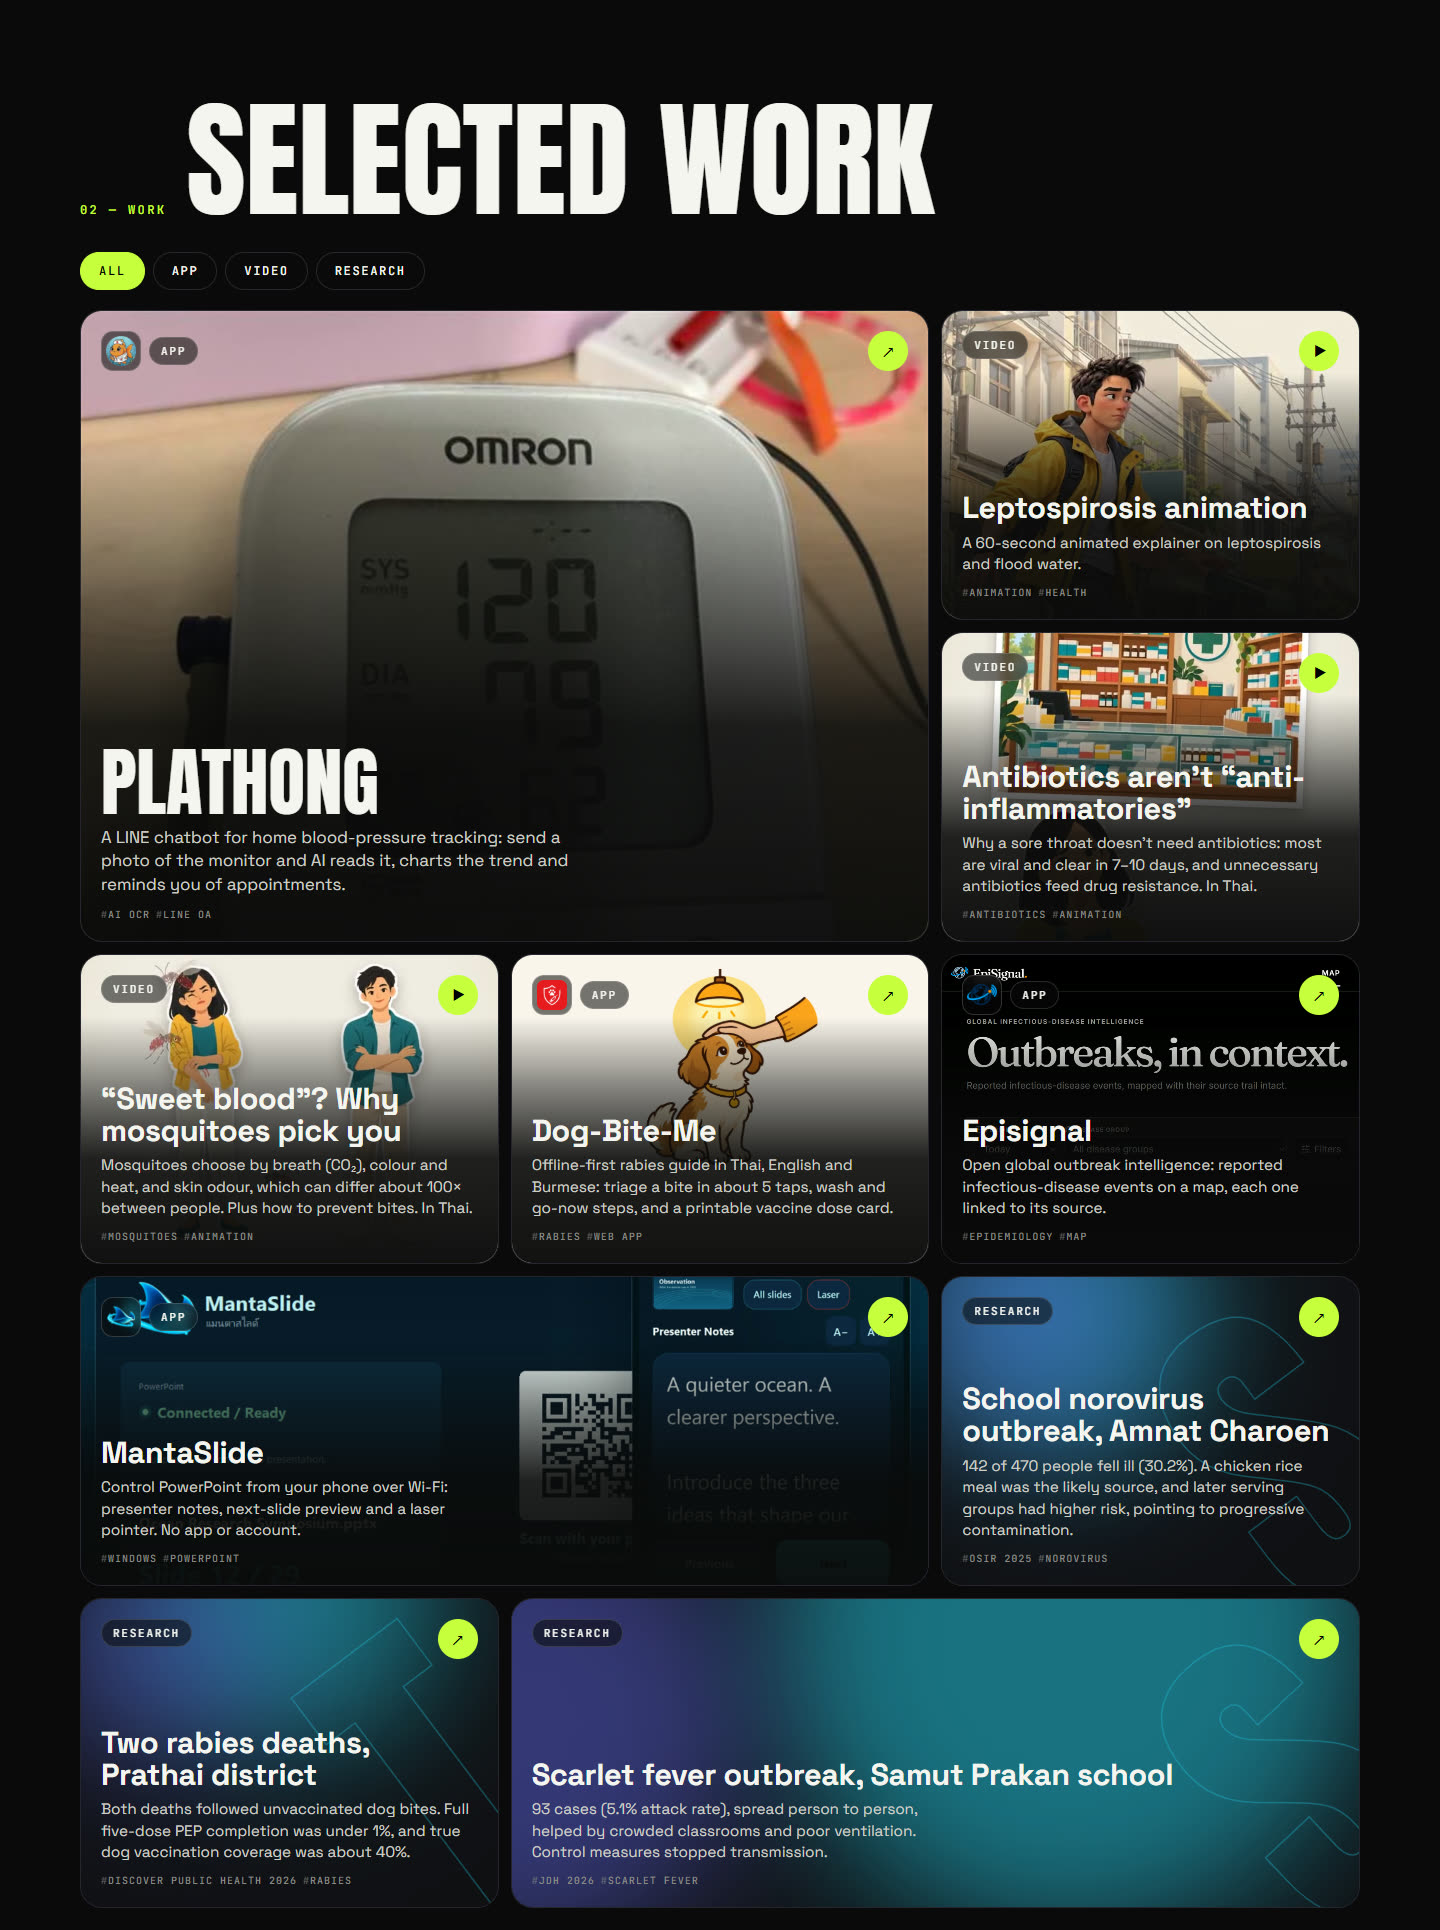
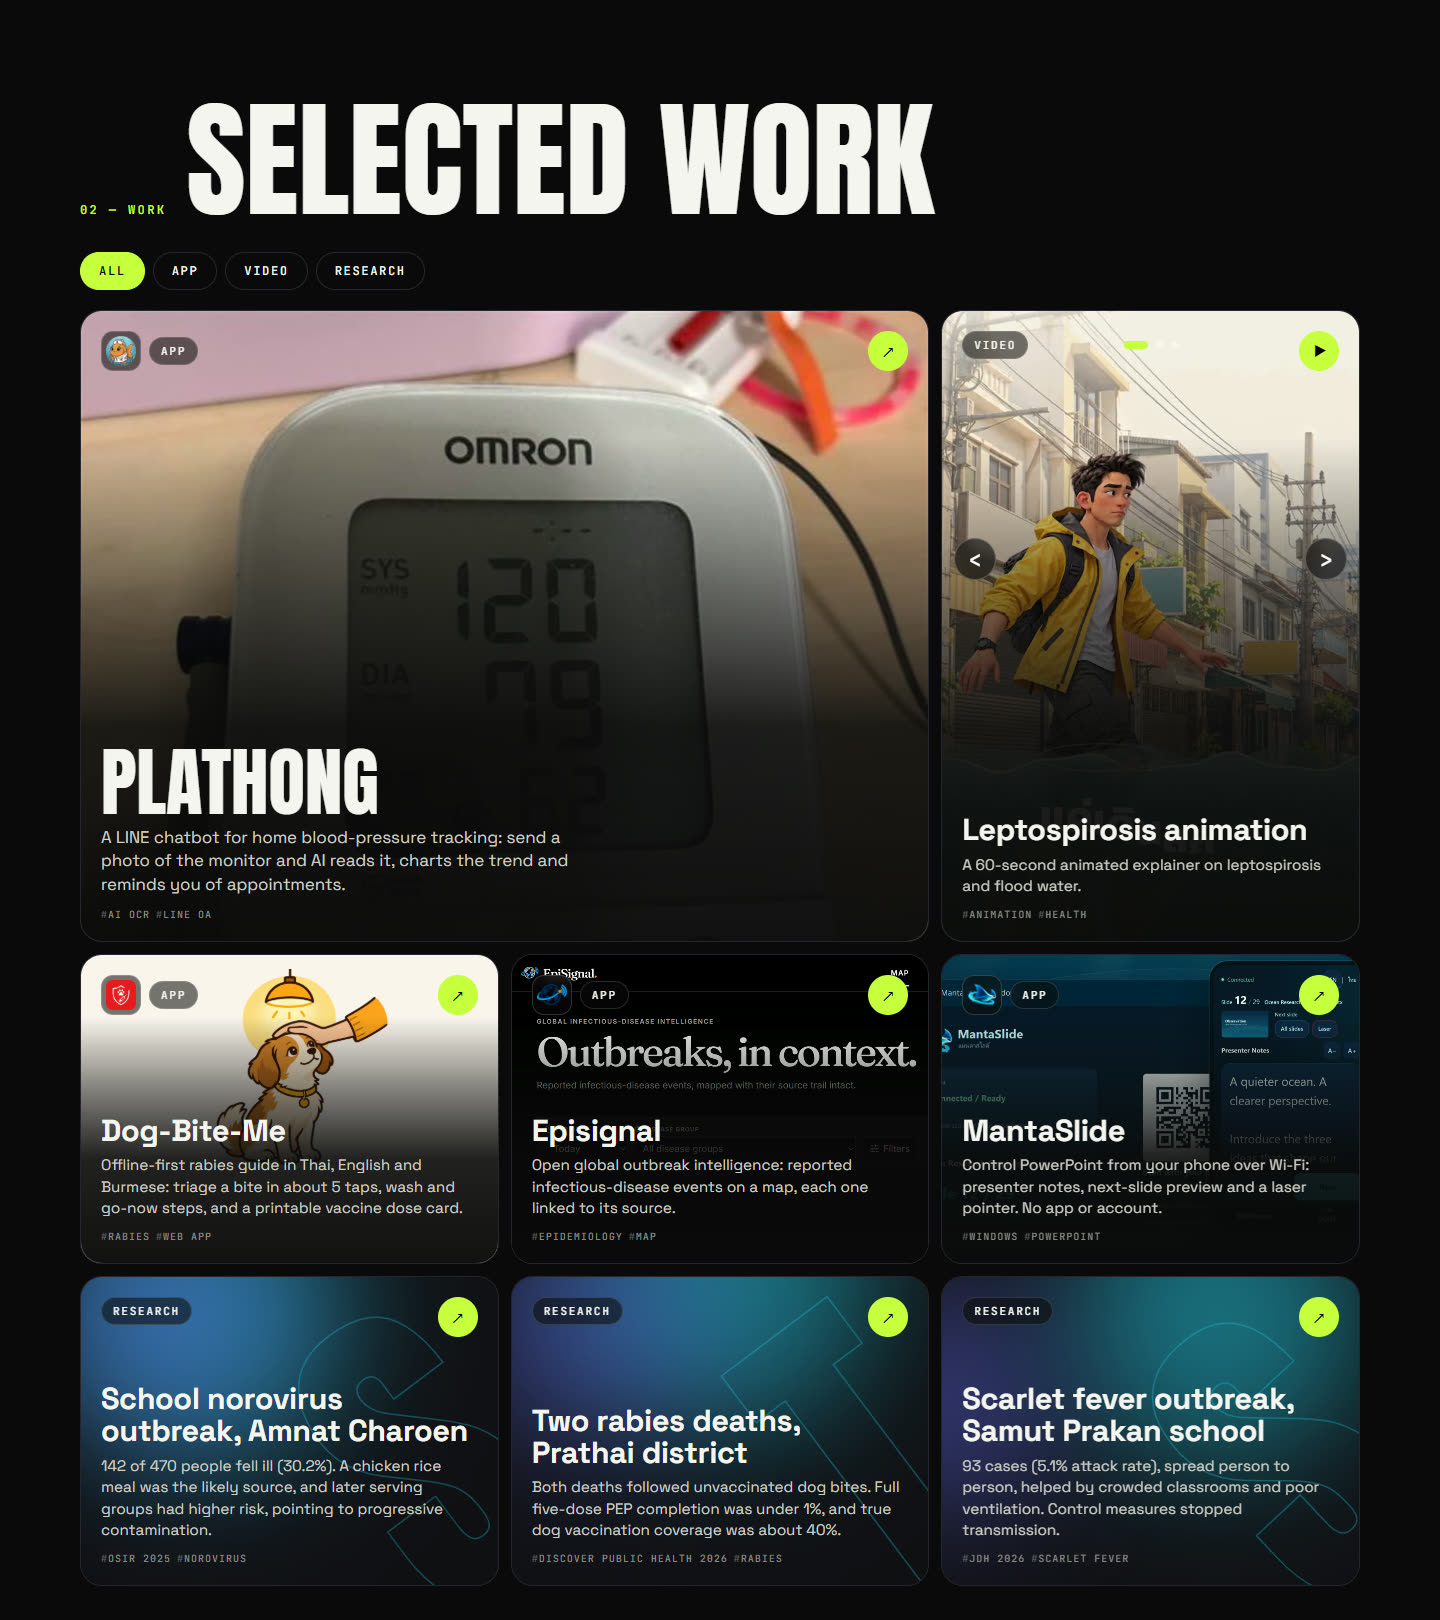
Put the videos in one carousel card
- One tall card holds all video projects: prev/next arrows, dots, swipe, arrow keys
- Auto-advance every 7 s; pauses on hover/focus, after interaction, off-screen,
  in a hidden tab, while the player is open, and for reduce-motion / data saver
- Active slide plays its silent preview loop; inactive slides are inert
- Grid is now 4 gap-free rows; Thai/English labels for the controls
- README and screenshot updated

diff --git a/js/main.js b/js/main.js
@@ -26,7 +26,7 @@ const safeUrl = (u) => (/^(https?:|mailto:|assets\/|\.\/|\/)/i.test(u || '') ? u
 const cap = (s) => s.charAt(0).toUpperCase() + s.slice(1);
 
 // Everything the renderers need; a language switch re-renders from this without refetching.
-const state = { site: null, projects: [], filter: 'All' };
+const state = { site: null, projects: [], filter: 'All', slide: 0 };
 
 async function loadJSON(path) {
   const res = await fetch(path, { cache: 'no-cache' });
@@ -199,10 +199,15 @@ function setPreview(video, on) {
   }
 }
 
-function wirePreview(tile, cover, src) {
-  if (!previewsAllowed()) return;
+function makeLoop(src) {
   const video = h('video', { class: 'cover-loop', muted: true, loop: true, playsinline: true, preload: 'none', 'aria-hidden': 'true', tabindex: '-1', 'data-src': safeUrl(src) });
   video.muted = true; // the attribute alone is not enough for autoplay policies in every browser
+  return video;
+}
+
+function wirePreview(tile, cover, src) {
+  if (!previewsAllowed()) return;
+  const video = makeLoop(src);
   cover.append(video);
   if (touchOnly()) {
     if (!previewObserver && 'IntersectionObserver' in window) {
@@ -219,8 +224,117 @@ function wirePreview(tile, cover, src) {
   }
 }
 
+/* ---------- Video carousel: all videos in one card ---------- */
+let carouselTimer = null;
+let carouselObserver = null;
+let carouselSync = () => {};
+document.addEventListener('visibilitychange', () => carouselSync());
+
+function stopCarousel() {
+  clearInterval(carouselTimer);
+  carouselTimer = null;
+  if (carouselObserver) carouselObserver.disconnect();
+  carouselObserver = null;
+  carouselSync = () => {};
+}
+
+function carouselTile(videos) {
+  const total = videos.length;
+  const tile = h('article', {
+    class: 'tile project reveal tall carousel', 'data-type': 'Video',
+    role: 'region', 'aria-roledescription': 'carousel', 'aria-label': t('carouselLabel'),
+  });
+
+  // Each slide is an ordinary project tile with the tile chrome removed, so covers, titles and the play link stay identical.
+  const slides = videos.map((p, i) => {
+    const s = projectTile(p, { preview: false });
+    s.className = 'slide';
+    s.removeAttribute('data-type');
+    s.setAttribute('role', 'group');
+    s.setAttribute('aria-roledescription', 'slide');
+    s.setAttribute('aria-label', t('slideOf', { n: i + 1, total }));
+    if (safeUrl(p.preview)) { s._loop = makeLoop(p.preview); s.querySelector('.cover').append(s._loop); }
+    tile.append(s);
+    return s;
+  });
+
+  const prev = h('button', { class: 'c-btn c-prev', type: 'button', 'aria-label': t('prevVideo'), text: '‹' });
+  const next = h('button', { class: 'c-btn c-next', type: 'button', 'aria-label': t('nextVideo'), text: '›' });
+  const dots = videos.map((_, i) => h('button', { class: 'c-dot', type: 'button', 'aria-label': t('slideOf', { n: i + 1, total }) }));
+  tile.append(prev, next, h('div', { class: 'c-dots' }, dots));
+
+  const motionOk = previewsAllowed(); // same rule as the hover previews: no auto-advance or moving loops for reduce-motion / data saver
+  let index = Math.min(state.slide || 0, total - 1);
+  let visible = false;
+  let hovering = false;
+  let lastTouch = 0;
+
+  const syncLoops = () => {
+    slides.forEach((s, k) => {
+      if (s._loop) setPreview(s._loop, motionOk && visible && !document.hidden && k === index);
+    });
+  };
+
+  const show = (i, byUser) => {
+    index = (i + total) % total;
+    state.slide = index;
+    if (byUser) lastTouch = Date.now();
+    slides.forEach((s, k) => {
+      const on = k === index;
+      s.classList.toggle('active', on);
+      s.inert = !on;
+      s.setAttribute('aria-hidden', String(!on));
+      dots[k].classList.toggle('on', on);
+      dots[k].setAttribute('aria-current', String(on));
+    });
+    syncLoops();
+  };
+
+  prev.addEventListener('click', () => show(index - 1, true));
+  next.addEventListener('click', () => show(index + 1, true));
+  dots.forEach((d, i) => d.addEventListener('click', () => show(i, true)));
+  tile.addEventListener('keydown', (e) => {
+    if (e.key === 'ArrowLeft') { show(index - 1, true); e.preventDefault(); }
+    if (e.key === 'ArrowRight') { show(index + 1, true); e.preventDefault(); }
+  });
+  tile.addEventListener('mouseenter', () => { hovering = true; });
+  tile.addEventListener('mouseleave', () => { hovering = false; });
+  tile.addEventListener('focusin', () => { hovering = true; });
+  tile.addEventListener('focusout', () => { hovering = false; });
+
+  let x0 = null;
+  tile.addEventListener('touchstart', (e) => { x0 = e.touches[0].clientX; lastTouch = Date.now(); }, { passive: true });
+  tile.addEventListener('touchend', (e) => {
+    if (x0 == null) return;
+    const dx = e.changedTouches[0].clientX - x0;
+    x0 = null;
+    if (Math.abs(dx) > 45) show(index + (dx < 0 ? 1 : -1), true);
+  }, { passive: true });
+
+  carouselSync = syncLoops;
+  if ('IntersectionObserver' in window) {
+    carouselObserver = new IntersectionObserver((entries) => {
+      visible = entries.some((e) => e.isIntersecting);
+      syncLoops();
+    }, { threshold: 0.35 });
+    carouselObserver.observe(tile);
+  } else {
+    visible = true;
+  }
+
+  if (motionOk && total > 1) {
+    carouselTimer = setInterval(() => {
+      // never advance while someone is looking at / using it, off-screen, in another tab, or while the player is open
+      if (visible && !hovering && !document.hidden && modal.hidden && Date.now() - lastTouch > 5000) show(index + 1, false);
+    }, 7000);
+  }
+
+  show(index, false);
+  return tile;
+}
+
 /* ---------- Work ---------- */
-function projectTile(p) {
+function projectTile(p, opts = {}) {
   const title = tr(p.title);
   const fullTitle = p.fullTitle ? tr(p.fullTitle) : '';
   const url = safeUrl(p.link);
@@ -232,7 +346,7 @@ function projectTile(p) {
 
   const cover = coverFor({ ...p, title: en(p.title) }); // covers stay keyed to the English title, so they never change with language
   tile.append(cover);
-  if (hasVideo && safeUrl(p.preview)) wirePreview(tile, cover, p.preview);
+  if (opts.preview !== false && hasVideo && safeUrl(p.preview)) wirePreview(tile, cover, p.preview);
   if (p.image || p.poster) tile.append(h('div', { class: 'scrim' }));
 
   if (hasVideo) {
@@ -270,7 +384,19 @@ function renderWork(projects) {
   const grid = $('#work-grid');
   const tabs = $('#tabs');
   if (previewObserver) previewObserver.disconnect();
-  grid.replaceChildren(...projects.map(projectTile));
+  stopCarousel();
+  // Two or more videos share one carousel card, placed where the first video sits.
+  const videos = projects.filter((p) => p.video);
+  const tiles = [];
+  let carouselAdded = false;
+  for (const p of projects) {
+    if (p.video && videos.length > 1) {
+      if (!carouselAdded) { tiles.push(carouselTile(videos)); carouselAdded = true; }
+      continue;
+    }
+    tiles.push(projectTile(p));
+  }
+  grid.replaceChildren(...tiles);
 
   const types = [...new Set(projects.map((p) => p.type))];
   if (!types.includes(state.filter)) state.filter = 'All';

diff --git a/css/style.css b/css/style.css
@@ -265,6 +265,19 @@ button.t-latest { text-align: left; cursor: pointer; width: 100%; }
   .project.featured .p-bottom h3 { font-size: clamp(2.4rem, 12vw, 3.4rem); }
 }
 
+
+/* Video carousel: slides stack in one card and crossfade */
+.carousel .slide { position: absolute; inset: 0; opacity: 0; pointer-events: none; transition: opacity .6s var(--ease); }
+.carousel .slide.active { opacity: 1; pointer-events: auto; }
+.c-btn { position: absolute; top: 36%; z-index: 6; width: 42px; height: 42px; display: grid; place-items: center; padding: 0 0 3px; border-radius: 50%; border: 1px solid rgba(255, 255, 255, .22); background: rgba(10, 10, 10, .6); color: #fff; font: 400 1.7rem/1 var(--body); cursor: pointer; backdrop-filter: blur(6px); transition: background .25s, color .25s, border-color .25s; }
+.c-prev { left: 12px; }
+.c-next { right: 12px; }
+.c-btn:hover, .c-btn:focus-visible { background: var(--lime); color: #000; border-color: var(--lime); outline: none; }
+.c-dots { position: absolute; top: 30px; left: 50%; z-index: 6; display: flex; gap: 7px; transform: translateX(-50%); }
+.c-dot { width: 8px; height: 8px; padding: 0; border: 0; border-radius: 99px; background: rgba(255, 255, 255, .4); cursor: pointer; transition: width .3s var(--ease), background .3s; }
+.c-dot.on { width: 24px; background: var(--lime); }
+.c-dot:focus-visible { outline: 2px solid var(--lime); outline-offset: 3px; }
+
 /* ============ Contact ============ */
 .contact { padding: clamp(64px, 9vw, 130px) 0 40px; overflow: hidden; }
 /* Align contact content with the grid's left edge */
@@ -311,7 +324,8 @@ a.collab-card:focus-visible { outline: 2px solid var(--lime); outline-offset: 3p
   html:not(.force-motion) .tile,
   html:not(.force-motion) .cover,
   html:not(.force-motion) .arrow,
-  html:not(.force-motion) .play { transition: none; }
+  html:not(.force-motion) .play,
+  html:not(.force-motion) .carousel .slide { transition: none; }
 }
 
 /* ============ Thai typography ============

diff --git a/js/i18n.js b/js/i18n.js
@@ -24,6 +24,7 @@ const UI = {
     mailCtaSubject: 'Collaboration', mailCtaLine: 'I’d like to collaborate with you.', mailCtaAbout: 'What I’m working on:',
     loadError: 'Couldn’t load the projects right now.', loadErrorLink: 'Watch my videos on YouTube ↗',
     modalClose: 'Close video', modalDialog: 'Video player', portrait: 'Portrait of {name}',
+    carouselLabel: 'Animated explainer videos', prevVideo: 'Previous video', nextVideo: 'Next video', slideOf: 'Video {n} of {total}',
   },
   th: {
     pageTitle: 'NAMWAAOK — นพ.วริทธิ์นันท์ อนุพัฒน์',
@@ -47,6 +48,7 @@ const UI = {
     mailCtaSubject: 'ร่วมงานกัน', mailCtaLine: 'สนใจร่วมงานกับคุณ', mailCtaAbout: 'สิ่งที่กำลังทำอยู่:',
     loadError: 'โหลดผลงานไม่สำเร็จในขณะนี้', loadErrorLink: 'ดูวิดีโอของผมบน YouTube ↗',
     modalClose: 'ปิดวิดีโอ', modalDialog: 'เครื่องเล่นวิดีโอ', portrait: 'ภาพถ่ายของ {name}',
+    carouselLabel: 'วิดีโออนิเมชันให้ความรู้', prevVideo: 'วิดีโอก่อนหน้า', nextVideo: 'วิดีโอถัดไป', slideOf: 'วิดีโอ {n} จาก {total}',
   },
 };
 

diff --git a/README.md b/README.md
@@ -12,7 +12,7 @@ Portfolio of **Waritnun Anupat, MD**: a doctor in the Field Epidemiology Trainin
 |---|---|
 | **Hero** | Three rows of kinetic type that speed up as you scroll, after a short loading counter. |
 | **About** | Portrait, bio, project counter, toolkit (AI tools, Python, R, data analytics, video editing), contact links, a "Latest" tile, and YouTube and TikTok tiles that describe each channel. |
-| **Work** | A bento grid of apps, three animated explainer videos and three first-author papers, with filter tabs (All, App, Video, Research). Video tiles loop a silent preview on hover and play the full video in a pop-up player. |
+| **Work** | A bento grid of apps, one card that holds the three animated explainer videos (arrows, dots, swipe and auto-advance) and three first-author papers, with filter tabs (All, App, Video, Research). Clicking a video opens it in a pop-up player. |
 | **Collaborate** | One-click, pre-filled emails for health apps, outbreak and epi tools, agentic AI, research, simple websites, and job opportunities. |
 
 ![About section with portrait, bio, toolkit and links](assets/readme/about.jpg)
@@ -47,10 +47,10 @@ Good to know:
 The first load is about 0.8 MB (images plus code). Videos never load on their own:
 
 - Each video tile shows a small poster image. The full video (`preload="none"`, about 4-5 MB) downloads only when someone clicks play, and starts playing before it has fully downloaded (`faststart`).
-- Each tile can also have a 4-second silent preview loop (60-150 KB, 480 px wide). It has no `src` until the visitor hovers the tile (or, on touch screens, scrolls it into view), pauses when they leave, and is skipped entirely for "reduce motion" and data-saver users.
+- Each video can also have a 4-second silent preview loop (60-150 KB, 480 px wide). The carousel plays the loop of the slide that is showing; it has no `src` until the card is on screen, pauses when it is scrolled away or the tab is hidden, and is skipped entirely (as is auto-advance) for "reduce motion" and data-saver users. A single standalone video tile loops on hover instead.
 - Files under `assets/` are cached by the browser for a day (see `vercel.json`).
 
-To add a video, put the files in `assets/video/` and add an entry to `data/projects.json` with `"type": "Video"`, `video`, `poster` and optionally `preview`. Make them with ffmpeg:
+All projects with a `video` are grouped into one carousel card automatically (it sits where the first video is listed); the slide order follows `data/projects.json`. To add a video, put the files in `assets/video/` and add an entry to `data/projects.json` with `"type": "Video"`, `video`, `poster` and optionally `preview`. Make them with ffmpeg:
 
 ```bash
 # full video: 720 px, quick start, light audio
